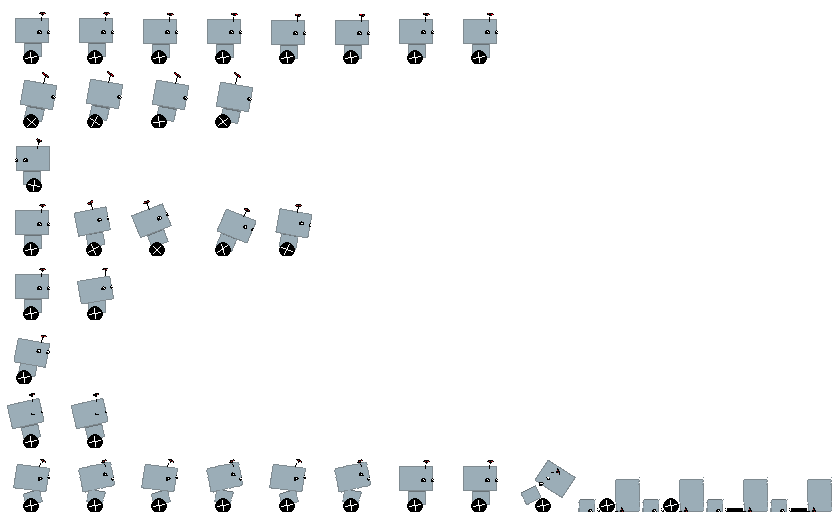
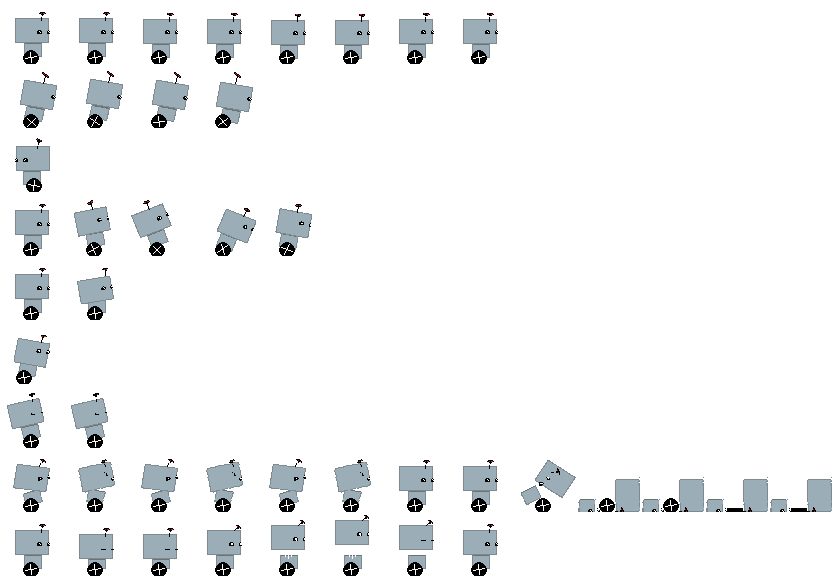
Added upward attack to player

diff --git a/ecs/system/player_states.go b/ecs/system/player_states.go
@@ -6,17 +6,18 @@ import (
 
 // Player state singletons (avoid allocations on transitions).
 var (
-	playerStateIdle   component.PlayerState = &playerIdleState{}
-	playerStateRun    component.PlayerState = &playerRunState{}
-	playerStateJump   component.PlayerState = &playerJumpState{}
-	playerStateDJmp   component.PlayerState = &playerDoubleJumpState{}
-	playerStateWall   component.PlayerState = &playerWallGrabState{}
-	playerStateFall   component.PlayerState = &playerFallState{}
-	playerStateAim    component.PlayerState = &playerAimState{}
-	playerStateSwing  component.PlayerState = &playerSwingState{}
-	playerStateAttack component.PlayerState = &playerAttackState{}
-	playerStateHit    component.PlayerState = &playerHitState{}
-	playerStateDeath  component.PlayerState = &playerDeathState{}
+	playerStateIdle     component.PlayerState = &playerIdleState{}
+	playerStateRun      component.PlayerState = &playerRunState{}
+	playerStateJump     component.PlayerState = &playerJumpState{}
+	playerStateDJmp     component.PlayerState = &playerDoubleJumpState{}
+	playerStateWall     component.PlayerState = &playerWallGrabState{}
+	playerStateFall     component.PlayerState = &playerFallState{}
+	playerStateAim      component.PlayerState = &playerAimState{}
+	playerStateSwing    component.PlayerState = &playerSwingState{}
+	playerStateAttack   component.PlayerState = &playerAttackState{}
+	playerStateUpAttack component.PlayerState = &playerUpwardAttackState{}
+	playerStateHit      component.PlayerState = &playerHitState{}
+	playerStateDeath    component.PlayerState = &playerDeathState{}
 )
 
 type playerIdleState struct{}
@@ -36,6 +37,8 @@ type playerAimState struct{}
 type playerSwingState struct{}
 
 type playerAttackState struct{}
+
+type playerUpwardAttackState struct{}
 
 type playerHitState struct{}
 
@@ -641,6 +644,41 @@ func (playerAttackState) Update(ctx *component.PlayerStateContext) {
 	}
 }
 
+func (playerUpwardAttackState) Name() string { return "upward_attack" }
+func (playerUpwardAttackState) Enter(ctx *component.PlayerStateContext) {
+	if ctx == nil {
+		return
+	}
+
+	if ctx.IsGrounded() {
+		ctx.SetVelocity(0, 0)
+	}
+
+	ctx.ChangeAnimation("upward_attack")
+	ctx.PlayAudio("attack")
+}
+func (playerUpwardAttackState) Exit(ctx *component.PlayerStateContext) {
+	ctx.StopAudio("attack")
+}
+func (playerUpwardAttackState) HandleInput(ctx *component.PlayerStateContext) { return }
+func (playerUpwardAttackState) Update(ctx *component.PlayerStateContext) {
+	if ctx == nil || ctx.GetAnimationPlaying == nil || ctx.ChangeState == nil || ctx.Input == nil {
+		return
+	}
+
+	if !ctx.GetAnimationPlaying() {
+		if ctx.IsGrounded != nil && ctx.IsGrounded() {
+			if ctx.Input.MoveX == 0 {
+				ctx.ChangeState(playerStateIdle)
+			} else {
+				ctx.ChangeState(playerStateRun)
+			}
+		} else {
+			ctx.ChangeState(playerStateFall)
+		}
+	}
+}
+
 func (playerHitState) Name() string { return "hit" }
 func (playerHitState) Enter(ctx *component.PlayerStateContext) {
 	if ctx == nil {
@@ -652,7 +690,7 @@ func (playerHitState) Enter(ctx *component.PlayerStateContext) {
 	// Add timed invulnerability and white flash while in hit state.
 	if ctx.AddInvulnerable != nil {
 		// default to 30 frames unless Player config provides a different value
-		frames := 30
+		frames := 60
 		ctx.AddInvulnerable(frames)
 	}
 

diff --git a/ecs/component/input.go b/ecs/component/input.go
@@ -2,17 +2,16 @@ package component
 
 // Input stores per-frame input state for an entity.
 type Input struct {
-	MoveX       float64
-	Jump        bool
-	JumpPressed bool
-	Aim         bool
-	AimX        float64
-	AimY        float64
-	// LookY is a small vertical look input used to offset the camera.
-	// Negative = look up, Positive = look down.
-	LookY         float64
-	AnchorPressed bool
-	AttackPressed bool
+	MoveX               float64
+	Jump                bool
+	JumpPressed         bool
+	Aim                 bool
+	AimX                float64
+	AimY                float64
+	LookY               float64
+	AnchorPressed       bool
+	AttackPressed       bool
+	UpwardAttackPressed bool
 }
 
 var InputComponent = NewComponent[Input]()

diff --git a/ecs/system/input.go b/ecs/system/input.go
@@ -84,6 +84,12 @@ func (i *InputSystem) Update(w *ecs.World) {
 		}
 	}
 
+	upwardAttackPressed := false
+	if attackPressed && lookY < 0 {
+		upwardAttackPressed = true
+		attackPressed = false
+	}
+
 	ecs.ForEach(w, component.InputComponent.Kind(), func(e ecs.Entity, input *component.Input) {
 		input.MoveX = moveX
 		input.Jump = jump
@@ -94,8 +100,6 @@ func (i *InputSystem) Update(w *ecs.World) {
 		input.LookY = lookY
 		input.AnchorPressed = anchorPressed
 		input.AttackPressed = attackPressed
-		// if err := ecs.Add(w, e, component.InputComponent.Kind(), input); err != nil {
-		// 	panic("input system: update input: " + err.Error())
-		// }
+		input.UpwardAttackPressed = upwardAttackPressed
 	})
 }

diff --git a/ecs/system/player_controller.go b/ecs/system/player_controller.go
@@ -347,6 +347,11 @@ func (p *PlayerControllerSystem) Update(w *ecs.World) {
 				}
 
 				// Allow immediate attack transitions from input
+				if input.UpwardAttackPressed {
+					if stateComp.State == nil || stateComp.State.Name() != "upward_attack" {
+						stateComp.Pending = playerStateUpAttack
+					}
+				}
 				if input.AttackPressed {
 					if stateComp.State == nil || stateComp.State.Name() != "attack" {
 						stateComp.Pending = playerStateAttack
